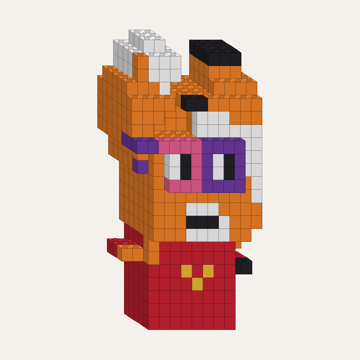
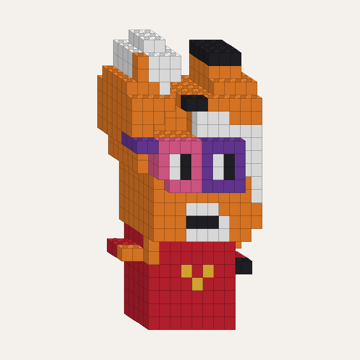
Noun 1：つるの下に残っていた紫を消し、つるを1本に

Changed region(s): [[0.3667, 0.4278, 0.4889, 0.5194]]

diff --git a/plan_noun1.js b/plan_noun1.js
@@ -1,1 +1,1 @@
-window.PLAN={"H": 22, "W": 16, "D": 8, "aspect": 0.77, "palette": {"pink": [230, 95, 145], "orange": [240, 130, 40], "green": [60, 160, 70], "blue": [50, 100, 200], "yellow": [235, 185, 50], "black": [35, 35, 40], "white": [245, 245, 245], "red": [200, 35, 50], "skin": [222, 196, 150], "brown": [120, 75, 40], "gray": [150, 150, 155], "purple": [110, 60, 160]}, "bricks": [{"y": 5, "shape": "1x3x", "col": "orange", "cells": [[2, 5, 3], [3, 5, 3], [4, 5, 3]]}, {"y": 5, "shape": "2x4x", "col": "red", "cells": [[2, 5, 4], [2, 5, 5], [3, 5, 4], [3, 5, 5], [4, 5, 4], [4, 5, 5], [5, 5, 4], [5, 5, 5]]}, {"y": 14, "shape": "2x3z", "col": "purple", "cells": [[2, 14, 0], [2, 14, 1], [2, 14, 2], [3, 14, 0], [3, 14, 1], [3, 14, 2]]}, {"y": 14, "shape": "2x3z", "col": "orange", "cells": [[2, 14, 3], [2, 14, 4], [2, 14, 5], [3, 14, 3], [3, 14, 4], [3, 14, 5]]}, {"y": 14, "shape": "2x8x", "col": "orange", "cells": [[2, 14, 6], [2, 14, 7], [3, 14, 6], [3, 14, 7], [4, 14, 6], [4, 14, 7], [5, 14, 6], [5, 14, 7], [6, 14, 6], [6, 14, 7], [7, 14, 6], [7, 14, 7], [8, 14, 6], [8, 14, 7], [9, 14, 6], [9, 14, 7]]}, {"y": 15, "shape": "1x6z", "col": "orange", "cells": [[2, 15, 1], [2, 15, 2], [2, 15, 3], [2, 15, 4], [2, 15, 5], [2, 15, 6]]}, {"y": 15, "shape": "1x4x", "col": "orange", "cells": [[2, 15, 7], [3, 15, 7], [4, 15, 7], [5, 15, 7]]}, {"y": 16, "shape": "2x3x", "col": "orange", "cells": [[2, 16, 1], [2, 16, 2], [3, 16, 1], [3, 16, 2], [4, 16, 1], [4, 16, 2]]}, {"y": 16, "shape": "1x3z", "col": "orange", "cells": [[2, 16, 3], [2, 16, 4], [2, 16, 5]]}, {"y": 16, "shape": "2x8x", "col": "orange", "cells": [[2, 16, 6], [2, 16, 7], [3, 16, 6], [3, 16, 7], [4, 16, 6], [4, 16, 7], [5, 16, 6], [5, 16, 7], [6, 16, 6], [6, 16, 7], [7, 16, 6], [7, 16, 7], [8, 16, 6], [8, 16, 7], [9, 16, 6], [9, 16, 7]]}, {"y": 17, "shape": "1x6z", "col": "orange", "cells": [[2, 17, 1], [2, 17, 2], [2, 17, 3], [2, 17, 4], [2, 17, 5], [2, 17, 6]]}, {"y": 17, "shape": "1x4x", "col": "orange", "cells": [[2, 17, 7], [3, 17, 7], [4, 17, 7], [5, 17, 7]]}, {"y": 18, "shape": "1x3x", "col": "orange", "cells": [[2, 18, 2], [3, 18, 2], [4, 18, 2]]}, {"y": 18, "shape": "2x4x", "col": "orange", "cells": [[2, 18, 3], [2, 18, 4], [3, 18, 3], [3, 18, 4], [4, 18, 3], [4, 18, 4], [5, 18, 3], [5, 18, 4]]}, {"y": 18, "shape": "2x4x", "col": "orange", "cells": [[2, 18, 5], [2, 18, 6], [3, 18, 5], [3, 18, 6], [4, 18, 5], [4, 18, 6], [5, 18, 5], [5, 18, 6]]}, {"y": 12, "shape": "1x3x", "col": "purple", "cells": [[3, 12, 2], [4, 12, 2], [5, 12, 2]]}, {"y": 12, "shape": "2x4z", "col": "orange", "cells": [[3, 12, 3], [3, 12, 4], [3, 12, 5], [3, 12, 6], [4, 12, 3], [4, 12, 4], [4, 12, 5], [4, 12, 6]]}, {"y": 12, "shape": "1x2x", "col": "orange", "cells": [[3, 12, 7], [4, 12, 7]]}, {"y": 13, "shape": "1x6z", "col": "orange", "cells": [[3, 13, 2], [3, 13, 3], [3, 13, 4], [3, 13, 5], [3, 13, 6], [3, 13, 7]]}, {"y": 15, "shape": "1x2z", "col": "orange", "cells": [[3, 15, 1], [3, 15, 2]]}, {"y": 15, "shape": "2x8x", "col": "orange", "cells": [[3, 15, 3], [3, 15, 4], [4, 15, 3], [4, 15, 4], [5, 15, 3], [5, 15, 4], [6, 15, 3], [6, 15, 4], [7, 15, 3], [7, 15, 4], [8, 15, 3], [8, 15, 4], [9, 15, 3], [9, 15, 4], [10, 15, 3], [10, 15, 4]]}, {"y": 17, "shape": "2x3x", "col": "orange", "cells": [[3, 17, 1], [3, 17, 2], [4, 17, 1], [4, 17, 2], [5, 17, 1], [5, 17, 2]]}, {"y": 19, "shape": "1x1", "col": "orange", "cells": [[3, 19, 2]]}, {"y": 19, "shape": "1x4z", "col": "white", "cells": [[3, 19, 3], [3, 19, 4], [3, 19, 5], [3, 19, 6]]}, {"y": 20, "shape": "1x1", "col": "orange", "cells": [[3, 20, 2]]}, {"y": 20, "shape": "2x4z", "col": "white", "cells": [[3, 20, 3], [3, 20, 4], [3, 20, 5], [3, 20, 6], [4, 20, 3], [4, 20, 4], [4, 20, 5], [4, 20, 6]]}, {"y": 0, "shape": "2x8x", "col": "red", "cells": [[4, 0, 2], [4, 0, 3], [5, 0, 2], [5, 0, 3], [6, 0, 2], [6, 0, 3], [7, 0, 2], [7, 0, 3], [8, 0, 2], [8, 0, 3], [9, 0, 2], [9, 0, 3], [10, 0, 2], [10, 0, 3], [11, 0, 2], [11, 0, 3]]}, {"y": 0, "shape": "2x8x", "col": "red", "cells": [[4, 0, 4], [4, 0, 5], [5, 0, 4], [5, 0, 5], [6, 0, 4], [6, 0, 5], [7, 0, 4], [7, 0, 5], [8, 0, 4], [8, 0, 5], [9, 0, 4], [9, 0, 5], [10, 0, 4], [10, 0, 5], [11, 0, 4], [11, 0, 5]]}, {"y": 0, "shape": "1x4x", "col": "red", "cells": [[4, 0, 6], [5, 0, 6], [6, 0, 6], [7, 0, 6]]}, {"y": 1, "shape": "2x3z", "col": "red", "cells": [[4, 1, 2], [4, 1, 3], [4, 1, 4], [5, 1, 2], [5, 1, 3], [5, 1, 4]]}, {"y": 1, "shape": "2x8x", "col": "red", "cells": [[4, 1, 5], [4, 1, 6], [5, 1, 5], [5, 1, 6], [6, 1, 5], [6, 1, 6], [7, 1, 5], [7, 1, 6], [8, 1, 5], [8, 1, 6], [9, 1, 5], [9, 1, 6], [10, 1, 5], [10, 1, 6], [11, 1, 5], [11, 1, 6]]}, {"y": 2, "shape": "2x8x", "col": "red", "cells": [[4, 2, 2], [4, 2, 3], [5, 2, 2], [5, 2, 3], [6, 2, 2], [6, 2, 3], [7, 2, 2], [7, 2, 3], [8, 2, 2], [8, 2, 3], [9, 2, 2], [9, 2, 3], [10, 2, 2], [10, 2, 3], [11, 2, 2], [11, 2, 3]]}, {"y": 2, "shape": "2x8x", "col": "red", "cells": [[4, 2, 4], [4, 2, 5], [5, 2, 4], [5, 2, 5], [6, 2, 4], [6, 2, 5], [7, 2, 4], [7, 2, 5], [8, 2, 4], [8, 2, 5], [9, 2, 4], [9, 2, 5], [10, 2, 4], [10, 2, 5], [11, 2, 4], [11, 2, 5]]}, {"y": 2, "shape": "1x4x", "col": "red", "cells": [[4, 2, 6], [5, 2, 6], [6, 2, 6], [7, 2, 6]]}, {"y": 3, "shape": "1x4x", "col": "red", "cells": [[4, 3, 2], [5, 3, 2], [6, 3, 2], [7, 3, 2]]}, {"y": 3, "shape": "2x8x", "col": "red", "cells": [[4, 3, 3], [4, 3, 4], [5, 3, 3], [5, 3, 4], [6, 3, 3], [6, 3, 4], [7, 3, 3], [7, 3, 4], [8, 3, 3], [8, 3, 4], [9, 3, 3], [9, 3, 4], [10, 3, 3], [10, 3, 4], [11, 3, 3], [11, 3, 4]]}, {"y": 3, "shape": "2x8x", "col": "red", "cells": [[4, 3, 5], [4, 3, 6], [5, 3, 5], [5, 3, 6], [6, 3, 5], [6, 3, 6], [7, 3, 5], [7, 3, 6], [8, 3, 5], [8, 3, 6], [9, 3, 5], [9, 3, 6], [10, 3, 5], [10, 3, 6], [11, 3, 5], [11, 3, 6]]}, {"y": 4, "shape": "2x3x", "col": "red", "cells": [[4, 4, 2], [4, 4, 3], [5, 4, 2], [5, 4, 3], [6, 4, 2], [6, 4, 3]]}, {"y": 4, "shape": "2x3z", "col": "red", "cells": [[4, 4, 4], [4, 4, 5], [4, 4, 6], [5, 4, 4], [5, 4, 5], [5, 4, 6]]}, {"y": 5, "shape": "1x1", "col": "orange", "cells": [[4, 5, 2]]}, {"y": 5, "shape": "1x6x", "col": "red", "cells": [[4, 5, 6], [5, 5, 6], [6, 5, 6], [7, 5, 6], [8, 5, 6], [9, 5, 6]]}, {"y": 6, "shape": "1x1", "col": "orange", "cells": [[4, 6, 2]]}, {"y": 6, "shape": "2x4z", "col": "red", "cells": [[4, 6, 3], [4, 6, 4], [4, 6, 5], [4, 6, 6], [5, 6, 3], [5, 6, 4], [5, 6, 5], [5, 6, 6]]}, {"y": 7, "shape": "2x3x", "col": "orange", "cells": [[4, 7, 1], [4, 7, 2], [5, 7, 1], [5, 7, 2], [6, 7, 1], [6, 7, 2]]}, {"y": 7, "shape": "1x3z", "col": "orange", "cells": [[4, 7, 3], [4, 7, 4], [4, 7, 5]]}, {"y": 7, "shape": "2x8x", "col": "orange", "cells": [[4, 7, 6], [4, 7, 7], [5, 7, 6], [5, 7, 7], [6, 7, 6], [6, 7, 7], [7, 7, 6], [7, 7, 7], [8, 7, 6], [8, 7, 7], [9, 7, 6], [9, 7, 7], [10, 7, 6], [10, 7, 7], [11, 7, 6], [11, 7, 7]]}, {"y": 8, "shape": "1x3x", "col": "orange", "cells": [[4, 8, 1], [5, 8, 1], [6, 8, 1]]}, {"y": 8, "shape": "1x3z", "col": "orange", "cells": [[4, 8, 2], [4, 8, 3], [4, 8, 4]]}, {"y": 8, "shape": "2x3z", "col": "orange", "cells": [[4, 8, 5], [4, 8, 6], [4, 8, 7], [5, 8, 5], [5, 8, 6], [5, 8, 7]]}, {"y": 9, "shape": "1x6z", "col": "orange", "cells": [[4, 9, 1], [4, 9, 2], [4, 9, 3], [4, 9, 4], [4, 9, 5], [4, 9, 6]]}, {"y": 9, "shape": "1x6x", "col": "orange", "cells": [[4, 9, 7], [5, 9, 7], [6, 9, 7], [7, 9, 7], [8, 9, 7], [9, 9, 7]]}, {"y": 10, "shape": "1x6x", "col": "orange", "cells": [[4, 10, 1], [5, 10, 1], [6, 10, 1], [7, 10, 1], [8, 10, 1], [9, 10, 1]]}, {"y": 10, "shape": "1x6z", "col": "orange", "cells": [[4, 10, 2], [4, 10, 3], [4, 10, 4], [4, 10, 5], [4, 10, 6], [4, 10, 7]]}, {"y": 11, "shape": "1x3z", "col": "orange", "cells": [[4, 11, 1], [4, 11, 2], [4, 11, 3]]}, {"y": 11, "shape": "2x4z", "col": "orange", "cells": [[4, 11, 4], [4, 11, 5], [4, 11, 6], [4, 11, 7], [5, 11, 4], [5, 11, 5], [5, 11, 6], [5, 11, 7]]}, {"y": 12, "shape": "1x1", "col": "orange", "cells": [[4, 12, 1]]}, {"y": 13, "shape": "1x1", "col": "orange", "cells": [[4, 13, 1]]}, {"y": 13, "shape": "1x2x", "col": "orange", "cells": [[4, 13, 7], [5, 13, 7]]}, {"y": 14, "shape": "1x2x", "col": "pink", "cells": [[4, 14, 0], [5, 14, 0]]}, {"y": 14, "shape": "2x4x", "col": "orange", "cells": [[4, 14, 1], [4, 14, 2], [5, 14, 1], [5, 14, 2], [6, 14, 1], [6, 14, 2], [7, 14, 1], [7, 14, 2]]}, {"y": 16, "shape": "2x4x", "col": "orange", "cells": [[4, 16, 3], [4, 16, 4], [5, 16, 3], [5, 16, 4], [6, 16, 3], [6, 16, 4], [7, 16, 3], [7, 16, 4]]}, {"y": 19, "shape": "2x3x", "col": "white", "cells": [[4, 19, 2], [4, 19, 3], [5, 19, 2], [5, 19, 3], [6, 19, 2], [6, 19, 3]]}, {"y": 19, "shape": "2x3x", "col": "white", "cells": [[4, 19, 4], [4, 19, 5], [5, 19, 4], [5, 19, 5], [6, 19, 4], [6, 19, 5]]}, {"y": 19, "shape": "1x3x", "col": "white", "cells": [[4, 19, 6], [5, 19, 6], [6, 19, 6]]}, {"y": 20, "shape": "1x3x", "col": "white", "cells": [[4, 20, 2], [5, 20, 2], [6, 20, 2]]}, {"y": 21, "shape": "2x3z", "col": "white", "cells": [[4, 21, 3], [4, 21, 4], [4, 21, 5], [5, 21, 3], [5, 21, 4], [5, 21, 5]]}, {"y": 5, "shape": "1x6x", "col": "red", "cells": [[5, 5, 2], [6, 5, 2], [7, 5, 2], [8, 5, 2], [9, 5, 2], [10, 5, 2]]}, {"y": 6, "shape": "1x3x", "col": "red", "cells": [[5, 6, 2], [6, 6, 2], [7, 6, 2]]}, {"y": 9, "shape": "1x2x", "col": "orange", "cells": [[5, 9, 1], [6, 9, 1]]}, {"y": 10, "shape": "2x8x", "col": "orange", "cells": [[5, 10, 6], [5, 10, 7], [6, 10, 6], [6, 10, 7], [7, 10, 6], [7, 10, 7], [8, 10, 6], [8, 10, 7], [9, 10, 6], [9, 10, 7], [10, 10, 6], [10, 10, 7], [11, 10, 6], [11, 10, 7], [12, 10, 6], [12, 10, 7]]}, {"y": 11, "shape": "1x2z", "col": "pink", "cells": [[5, 11, 0], [5, 11, 1]]}, {"y": 12, "shape": "1x1", "col": "white", "cells": [[5, 12, 0]]}, {"y": 12, "shape": "2x8x", "col": "orange", "cells": [[5, 12, 6], [5, 12, 7], [6, 12, 6], [6, 12, 7], [7, 12, 6], [7, 12, 7], [8, 12, 6], [8, 12, 7], [9, 12, 6], [9, 12, 7], [10, 12, 6], [10, 12, 7], [11, 12, 6], [11, 12, 7], [12, 12, 6], [12, 12, 7]]}, {"y": 13, "shape": "1x4z", "col": "white", "cells": [[5, 13, 0], [5, 13, 1], [5, 13, 2], [5, 13, 3]]}, {"y": 18, "shape": "1x1", "col": "white", "cells": [[5, 18, 2]]}, {"y": 20, "shape": "2x4z", "col": "white", "cells": [[5, 20, 3], [5, 20, 4], [5, 20, 5], [5, 20, 6], [6, 20, 3], [6, 20, 4], [6, 20, 5], [6, 20, 6]]}, {"y": 1, "shape": "1x6x", "col": "red", "cells": [[6, 1, 2], [7, 1, 2], [8, 1, 2], [9, 1, 2], [10, 1, 2], [11, 1, 2]]}, {"y": 4, "shape": "1x6x", "col": "red", "cells": [[6, 4, 6], [7, 4, 6], [8, 4, 6], [9, 4, 6], [10, 4, 6], [11, 4, 6]]}, {"y": 6, "shape": "1x6x", "col": "red", "cells": [[6, 6, 6], [7, 6, 6], [8, 6, 6], [9, 6, 6], [10, 6, 6], [11, 6, 6]]}, {"y": 8, "shape": "2x8x", "col": "orange", "cells": [[6, 8, 6], [6, 8, 7], [7, 8, 6], [7, 8, 7], [8, 8, 6], [8, 8, 7], [9, 8, 6], [9, 8, 7], [10, 8, 6], [10, 8, 7], [11, 8, 6], [11, 8, 7], [12, 8, 6], [12, 8, 7], [13, 8, 6], [13, 8, 7]]}, {"y": 11, "shape": "1x2z", "col": "pink", "cells": [[6, 11, 0], [6, 11, 1]]}, {"y": 11, "shape": "2x8x", "col": "orange", "cells": [[6, 11, 6], [6, 11, 7], [7, 11, 6], [7, 11, 7], [8, 11, 6], [8, 11, 7], [9, 11, 6], [9, 11, 7], [10, 11, 6], [10, 11, 7], [11, 11, 6], [11, 11, 7], [12, 11, 6], [12, 11, 7], [13, 11, 6], [13, 11, 7]]}, {"y": 12, "shape": "1x2z", "col": "black", "cells": [[6, 12, 0], [6, 12, 1]]}, {"y": 13, "shape": "1x2z", "col": "black", "cells": [[6, 13, 0], [6, 13, 1]]}, {"y": 13, "shape": "2x8x", "col": "orange", "cells": [[6, 13, 6], [6, 13, 7], [7, 13, 6], [7, 13, 7], [8, 13, 6], [8, 13, 7], [9, 13, 6], [9, 13, 7], [10, 13, 6], [10, 13, 7], [11, 13, 6], [11, 13, 7], [12, 13, 6], [12, 13, 7], [13, 13, 6], [13, 13, 7]]}, {"y": 14, "shape": "1x2x", "col": "pink", "cells": [[6, 14, 0], [7, 14, 0]]}, {"y": 15, "shape": "2x8x", "col": "orange", "cells": [[6, 15, 6], [6, 15, 7], [7, 15, 6], [7, 15, 7], [8, 15, 6], [8, 15, 7], [9, 15, 6], [9, 15, 7], [10, 15, 6], [10, 15, 7], [11, 15, 6], [11, 15, 7], [12, 15, 6], [12, 15, 7], [13, 15, 6], [13, 15, 7]]}, {"y": 17, "shape": "1x4x", "col": "orange", "cells": [[6, 17, 3], [7, 17, 3], [8, 17, 3], [9, 17, 3]]}, {"y": 17, "shape": "2x8x", "col": "orange", "cells": [[6, 17, 4], [6, 17, 5], [7, 17, 4], [7, 17, 5], [8, 17, 4], [8, 17, 5], [9, 17, 4], [9, 17, 5], [10, 17, 4], [10, 17, 5], [11, 17, 4], [11, 17, 5], [12, 17, 4], [12, 17, 5], [13, 17, 4], [13, 17, 5]]}, {"y": 17, "shape": "2x8x", "col": "orange", "cells": [[6, 17, 6], [6, 17, 7], [7, 17, 6], [7, 17, 7], [8, 17, 6], [8, 17, 7], [9, 17, 6], [9, 17, 7], [10, 17, 6], [10, 17, 7], [11, 17, 6], [11, 17, 7], [12, 17, 6], [12, 17, 7], [13, 17, 6], [13, 17, 7]]}, {"y": 4, "shape": "1x4z", "col": "yellow", "cells": [[7, 4, 2], [7, 4, 3], [7, 4, 4], [7, 4, 5]]}, {"y": 7, "shape": "2x4x", "col": "white", "cells": [[7, 7, 1], [7, 7, 2], [8, 7, 1], [8, 7, 2], [9, 7, 1], [9, 7, 2], [10, 7, 1], [10, 7, 2]]}, {"y": 8, "shape": "1x3x", "col": "black", "cells": [[7, 8, 1], [8, 8, 1], [9, 8, 1]]}, {"y": 9, "shape": "1x3x", "col": "white", "cells": [[7, 9, 1], [8, 9, 1], [9, 9, 1]]}, {"y": 11, "shape": "1x2z", "col": "pink", "cells": [[7, 11, 0], [7, 11, 1]]}, {"y": 12, "shape": "1x1", "col": "pink", "cells": [[7, 12, 0]]}, {"y": 13, "shape": "1x2z", "col": "pink", "cells": [[7, 13, 0], [7, 13, 1]]}, {"y": 17, "shape": "1x2x", "col": "black", "cells": [[7, 17, 1], [8, 17, 1]]}, {"y": 17, "shape": "1x2x", "col": "orange", "cells": [[7, 17, 2], [8, 17, 2]]}, {"y": 0, "shape": "1x4x", "col": "red", "cells": [[8, 0, 6], [9, 0, 6], [10, 0, 6], [11, 0, 6]]}, {"y": 2, "shape": "1x4x", "col": "red", "cells": [[8, 2, 6], [9, 2, 6], [10, 2, 6], [11, 2, 6]]}, {"y": 3, "shape": "1x1", "col": "yellow", "cells": [[8, 3, 2]]}, {"y": 4, "shape": "1x2z", "col": "red", "cells": [[8, 4, 2], [8, 4, 3]]}, {"y": 6, "shape": "1x4x", "col": "red", "cells": [[8, 6, 2], [9, 6, 2], [10, 6, 2], [11, 6, 2]]}, {"y": 11, "shape": "2x4x", "col": "purple", "cells": [[8, 11, 0], [8, 11, 1], [9, 11, 0], [9, 11, 1], [10, 11, 0], [10, 11, 1], [11, 11, 0], [11, 11, 1]]}, {"y": 12, "shape": "1x2z", "col": "purple", "cells": [[8, 12, 0], [8, 12, 1]]}, {"y": 13, "shape": "1x4z", "col": "purple", "cells": [[8, 13, 0], [8, 13, 1], [8, 13, 2], [8, 13, 3]]}, {"y": 14, "shape": "1x4x", "col": "purple", "cells": [[8, 14, 0], [9, 14, 0], [10, 14, 0], [11, 14, 0]]}, {"y": 15, "shape": "1x6x", "col": "white", "cells": [[8, 15, 1], [9, 15, 1], [10, 15, 1], [11, 15, 1], [12, 15, 1], [13, 15, 1]]}, {"y": 15, "shape": "1x6x", "col": "orange", "cells": [[8, 15, 2], [9, 15, 2], [10, 15, 2], [11, 15, 2], [12, 15, 2], [13, 15, 2]]}, {"y": 16, "shape": "1x3x", "col": "white", "cells": [[8, 16, 1], [9, 16, 1], [10, 16, 1]]}, {"y": 16, "shape": "1x2z", "col": "orange", "cells": [[8, 16, 2], [8, 16, 3]]}, {"y": 3, "shape": "1x3x", "col": "red", "cells": [[9, 3, 2], [10, 3, 2], [11, 3, 2]]}, {"y": 4, "shape": "1x4z", "col": "yellow", "cells": [[9, 4, 2], [9, 4, 3], [9, 4, 4], [9, 4, 5]]}, {"y": 6, "shape": "1x4x", "col": "orange", "cells": [[9, 6, 3], [10, 6, 3], [11, 6, 3], [12, 6, 3]]}, {"y": 12, "shape": "1x1", "col": "white", "cells": [[9, 12, 0]]}, {"y": 13, "shape": "1x2z", "col": "white", "cells": [[9, 13, 0], [9, 13, 1]]}, {"y": 17, "shape": "2x3x", "col": "orange", "cells": [[9, 17, 1], [9, 17, 2], [10, 17, 1], [10, 17, 2], [11, 17, 1], [11, 17, 2]]}, {"y": 4, "shape": "1x2x", "col": "red", "cells": [[10, 4, 2], [11, 4, 2]]}, {"y": 5, "shape": "2x2", "col": "red", "cells": [[10, 5, 5], [11, 5, 5], [10, 5, 6], [11, 5, 6]]}, {"y": 8, "shape": "1x4z", "col": "white", "cells": [[10, 8, 1], [10, 8, 2], [10, 8, 3], [10, 8, 4]]}, {"y": 9, "shape": "2x4x", "col": "orange", "cells": [[10, 9, 1], [10, 9, 2], [11, 9, 1], [11, 9, 2], [12, 9, 1], [12, 9, 2], [13, 9, 1], [13, 9, 2]]}, {"y": 9, "shape": "1x4x", "col": "orange", "cells": [[10, 9, 7], [11, 9, 7], [12, 9, 7], [13, 9, 7]]}, {"y": 10, "shape": "1x3x", "col": "orange", "cells": [[10, 10, 1], [11, 10, 1], [12, 10, 1]]}, {"y": 12, "shape": "1x6z", "col": "black", "cells": [[10, 12, 0], [10, 12, 1], [10, 12, 2], [10, 12, 3], [10, 12, 4], [10, 12, 5]]}, {"y": 13, "shape": "1x4z", "col": "black", "cells": [[10, 13, 0], [10, 13, 1], [10, 13, 2], [10, 13, 3]]}, {"y": 14, "shape": "2x3x", "col": "orange", "cells": [[10, 14, 6], [10, 14, 7], [11, 14, 6], [11, 14, 7], [12, 14, 6], [12, 14, 7]]}, {"y": 16, "shape": "1x4x", "col": "orange", "cells": [[10, 16, 7], [11, 16, 7], [12, 16, 7], [13, 16, 7]]}, {"y": 18, "shape": "1x4x", "col": "orange", "cells": [[10, 18, 2], [11, 18, 2], [12, 18, 2], [13, 18, 2]]}, {"y": 18, "shape": "2x4x", "col": "orange", "cells": [[10, 18, 3], [10, 18, 4], [11, 18, 3], [11, 18, 4], [12, 18, 3], [12, 18, 4], [13, 18, 3], [13, 18, 4]]}, {"y": 18, "shape": "2x4x", "col": "orange", "cells": [[10, 18, 5], [10, 18, 6], [11, 18, 5], [11, 18, 6], [12, 18, 5], [12, 18, 6], [13, 18, 5], [13, 18, 6]]}, {"y": 19, "shape": "1x4z", "col": "orange", "cells": [[10, 19, 3], [10, 19, 4], [10, 19, 5], [10, 19, 6]]}, {"y": 20, "shape": "2x4z", "col": "black", "cells": [[10, 20, 3], [10, 20, 4], [10, 20, 5], [10, 20, 6], [11, 20, 3], [11, 20, 4], [11, 20, 5], [11, 20, 6]]}, {"y": 1, "shape": "1x2z", "col": "red", "cells": [[11, 1, 3], [11, 1, 4]]}, {"y": 4, "shape": "1x3x", "col": "black", "cells": [[11, 4, 3], [12, 4, 3], [13, 4, 3]], "recolor": 1}, {"y": 4, "shape": "2x3x", "col": "red", "cells": [[11, 4, 4], [11, 4, 5], [12, 4, 4], [12, 4, 5], [13, 4, 4], [13, 4, 5]]}, {"y": 5, "shape": "1x3z", "col": "red", "cells": [[11, 5, 2], [11, 5, 3], [11, 5, 4]]}, {"y": 6, "shape": "2x2", "col": "red", "cells": [[11, 6, 4], [12, 6, 4], [11, 6, 5], [12, 6, 5]]}, {"y": 7, "shape": "2x4z", "col": "orange", "cells": [[11, 7, 1], [11, 7, 2], [11, 7, 3], [11, 7, 4], [12, 7, 1], [12, 7, 2], [12, 7, 3], [12, 7, 4]]}, {"y": 8, "shape": "1x3x", "col": "orange", "cells": [[11, 8, 1], [12, 8, 1], [13, 8, 1]]}, {"y": 12, "shape": "1x1", "col": "purple", "cells": [[11, 12, 0]]}, {"y": 13, "shape": "1x2z", "col": "purple", "cells": [[11, 13, 0], [11, 13, 1]]}, {"y": 16, "shape": "2x2", "col": "orange", "cells": [[11, 16, 1], [12, 16, 1], [11, 16, 2], [12, 16, 2]]}, {"y": 19, "shape": "2x4z", "col": "orange", "cells": [[11, 19, 3], [11, 19, 4], [11, 19, 5], [11, 19, 6], [12, 19, 3], [12, 19, 4], [12, 19, 5], [12, 19, 6]]}, {"y": 7, "shape": "1x3z", "col": "orange", "cells": [[12, 7, 5], [12, 7, 6], [12, 7, 7]]}, {"y": 8, "shape": "2x4z", "col": "orange", "cells": [[12, 8, 2], [12, 8, 3], [12, 8, 4], [12, 8, 5], [13, 8, 2], [13, 8, 3], [13, 8, 4], [13, 8, 5]]}, {"y": 11, "shape": "1x3z", "col": "orange", "cells": [[12, 11, 1], [12, 11, 2], [12, 11, 3]]}, {"y": 12, "shape": "1x2x", "col": "white", "cells": [[12, 12, 1], [13, 12, 1]]}, {"y": 13, "shape": "1x2x", "col": "white", "cells": [[12, 13, 1], [13, 13, 1]]}, {"y": 14, "shape": "1x2x", "col": "white", "cells": [[12, 14, 1], [13, 14, 1]]}, {"y": 17, "shape": "2x3z", "col": "orange", "cells": [[12, 17, 1], [12, 17, 2], [12, 17, 3], [13, 17, 1], [13, 17, 2], [13, 17, 3]]}, {"y": 20, "shape": "1x4z", "col": "black", "cells": [[12, 20, 3], [12, 20, 4], [12, 20, 5], [12, 20, 6]]}, {"y": 9, "shape": "1x4z", "col": "orange", "cells": [[13, 9, 3], [13, 9, 4], [13, 9, 5], [13, 9, 6]]}, {"y": 10, "shape": "1x1", "col": "white", "cells": [[13, 10, 1]]}, {"y": 10, "shape": "1x6z", "col": "orange", "cells": [[13, 10, 2], [13, 10, 3], [13, 10, 4], [13, 10, 5], [13, 10, 6], [13, 10, 7]]}, {"y": 11, "shape": "1x1", "col": "white", "cells": [[13, 11, 1]]}, {"y": 11, "shape": "1x4z", "col": "orange", "cells": [[13, 11, 2], [13, 11, 3], [13, 11, 4], [13, 11, 5]]}, {"y": 12, "shape": "1x6z", "col": "orange", "cells": [[13, 12, 2], [13, 12, 3], [13, 12, 4], [13, 12, 5], [13, 12, 6], [13, 12, 7]]}, {"y": 13, "shape": "1x4z", "col": "orange", "cells": [[13, 13, 2], [13, 13, 3], [13, 13, 4], [13, 13, 5]]}, {"y": 14, "shape": "1x6z", "col": "orange", "cells": [[13, 14, 2], [13, 14, 3], [13, 14, 4], [13, 14, 5], [13, 14, 6], [13, 14, 7]]}, {"y": 15, "shape": "1x3z", "col": "orange", "cells": [[13, 15, 3], [13, 15, 4], [13, 15, 5]]}, {"y": 16, "shape": "1x6z", "col": "orange", "cells": [[13, 16, 1], [13, 16, 2], [13, 16, 3], [13, 16, 4], [13, 16, 5], [13, 16, 6]]}]};
+window.PLAN={"H": 22, "W": 16, "D": 8, "aspect": 0.77, "palette": {"pink": [230, 95, 145], "orange": [240, 130, 40], "green": [60, 160, 70], "blue": [50, 100, 200], "yellow": [235, 185, 50], "black": [35, 35, 40], "white": [245, 245, 245], "red": [200, 35, 50], "skin": [222, 196, 150], "brown": [120, 75, 40], "gray": [150, 150, 155], "purple": [110, 60, 160]}, "bricks": [{"y": 5, "shape": "1x3x", "col": "orange", "cells": [[2, 5, 3], [3, 5, 3], [4, 5, 3]]}, {"y": 5, "shape": "2x3x", "col": "red", "cells": [[2, 5, 4], [2, 5, 5], [3, 5, 4], [3, 5, 5], [4, 5, 4], [4, 5, 5]]}, {"y": 14, "shape": "2x3z", "col": "purple", "cells": [[2, 14, 0], [2, 14, 1], [2, 14, 2], [3, 14, 0], [3, 14, 1], [3, 14, 2]]}, {"y": 14, "shape": "2x4z", "col": "orange", "cells": [[2, 14, 3], [2, 14, 4], [2, 14, 5], [2, 14, 6], [3, 14, 3], [3, 14, 4], [3, 14, 5], [3, 14, 6]]}, {"y": 14, "shape": "1x4x", "col": "orange", "cells": [[2, 14, 7], [3, 14, 7], [4, 14, 7], [5, 14, 7]]}, {"y": 15, "shape": "2x2", "col": "orange", "cells": [[2, 15, 1], [3, 15, 1], [2, 15, 2], [3, 15, 2]]}, {"y": 15, "shape": "1x6x", "col": "orange", "cells": [[2, 15, 3], [3, 15, 3], [4, 15, 3], [5, 15, 3], [6, 15, 3], [7, 15, 3]]}, {"y": 15, "shape": "2x4z", "col": "orange", "cells": [[2, 15, 4], [2, 15, 5], [2, 15, 6], [2, 15, 7], [3, 15, 4], [3, 15, 5], [3, 15, 6], [3, 15, 7]]}, {"y": 16, "shape": "1x6z", "col": "orange", "cells": [[2, 16, 1], [2, 16, 2], [2, 16, 3], [2, 16, 4], [2, 16, 5], [2, 16, 6]]}, {"y": 16, "shape": "1x4x", "col": "orange", "cells": [[2, 16, 7], [3, 16, 7], [4, 16, 7], [5, 16, 7]]}, {"y": 17, "shape": "2x3z", "col": "orange", "cells": [[2, 17, 1], [2, 17, 2], [2, 17, 3], [3, 17, 1], [3, 17, 2], [3, 17, 3]]}, {"y": 17, "shape": "2x8x", "col": "orange", "cells": [[2, 17, 4], [2, 17, 5], [3, 17, 4], [3, 17, 5], [4, 17, 4], [4, 17, 5], [5, 17, 4], [5, 17, 5], [6, 17, 4], [6, 17, 5], [7, 17, 4], [7, 17, 5], [8, 17, 4], [8, 17, 5], [9, 17, 4], [9, 17, 5]]}, {"y": 17, "shape": "2x8x", "col": "orange", "cells": [[2, 17, 6], [2, 17, 7], [3, 17, 6], [3, 17, 7], [4, 17, 6], [4, 17, 7], [5, 17, 6], [5, 17, 7], [6, 17, 6], [6, 17, 7], [7, 17, 6], [7, 17, 7], [8, 17, 6], [8, 17, 7], [9, 17, 6], [9, 17, 7]]}, {"y": 18, "shape": "1x3x", "col": "orange", "cells": [[2, 18, 2], [3, 18, 2], [4, 18, 2]]}, {"y": 18, "shape": "2x4x", "col": "orange", "cells": [[2, 18, 3], [2, 18, 4], [3, 18, 3], [3, 18, 4], [4, 18, 3], [4, 18, 4], [5, 18, 3], [5, 18, 4]]}, {"y": 18, "shape": "2x4x", "col": "orange", "cells": [[2, 18, 5], [2, 18, 6], [3, 18, 5], [3, 18, 6], [4, 18, 5], [4, 18, 6], [5, 18, 5], [5, 18, 6]]}, {"y": 12, "shape": "2x4z", "col": "orange", "cells": [[3, 12, 2], [3, 12, 3], [3, 12, 4], [3, 12, 5], [4, 12, 2], [4, 12, 3], [4, 12, 4], [4, 12, 5]]}, {"y": 12, "shape": "2x4x", "col": "orange", "cells": [[3, 12, 6], [3, 12, 7], [4, 12, 6], [4, 12, 7], [5, 12, 6], [5, 12, 7], [6, 12, 6], [6, 12, 7]]}, {"y": 13, "shape": "1x6z", "col": "orange", "cells": [[3, 13, 2], [3, 13, 3], [3, 13, 4], [3, 13, 5], [3, 13, 6], [3, 13, 7]]}, {"y": 16, "shape": "2x3z", "col": "orange", "cells": [[3, 16, 1], [3, 16, 2], [3, 16, 3], [4, 16, 1], [4, 16, 2], [4, 16, 3]]}, {"y": 19, "shape": "1x1", "col": "orange", "cells": [[3, 19, 2]]}, {"y": 19, "shape": "1x3z", "col": "white", "cells": [[3, 19, 3], [3, 19, 4], [3, 19, 5]]}, {"y": 19, "shape": "1x4x", "col": "white", "cells": [[3, 19, 6], [4, 19, 6], [5, 19, 6], [6, 19, 6]]}, {"y": 20, "shape": "1x1", "col": "orange", "cells": [[3, 20, 2]]}, {"y": 20, "shape": "2x4z", "col": "white", "cells": [[3, 20, 3], [3, 20, 4], [3, 20, 5], [3, 20, 6], [4, 20, 3], [4, 20, 4], [4, 20, 5], [4, 20, 6]]}, {"y": 0, "shape": "2x8x", "col": "red", "cells": [[4, 0, 2], [4, 0, 3], [5, 0, 2], [5, 0, 3], [6, 0, 2], [6, 0, 3], [7, 0, 2], [7, 0, 3], [8, 0, 2], [8, 0, 3], [9, 0, 2], [9, 0, 3], [10, 0, 2], [10, 0, 3], [11, 0, 2], [11, 0, 3]]}, {"y": 0, "shape": "2x3z", "col": "red", "cells": [[4, 0, 4], [4, 0, 5], [4, 0, 6], [5, 0, 4], [5, 0, 5], [5, 0, 6]]}, {"y": 1, "shape": "1x6x", "col": "red", "cells": [[4, 1, 2], [5, 1, 2], [6, 1, 2], [7, 1, 2], [8, 1, 2], [9, 1, 2]]}, {"y": 1, "shape": "1x2z", "col": "red", "cells": [[4, 1, 3], [4, 1, 4]]}, {"y": 1, "shape": "2x8x", "col": "red", "cells": [[4, 1, 5], [4, 1, 6], [5, 1, 5], [5, 1, 6], [6, 1, 5], [6, 1, 6], [7, 1, 5], [7, 1, 6], [8, 1, 5], [8, 1, 6], [9, 1, 5], [9, 1, 6], [10, 1, 5], [10, 1, 6], [11, 1, 5], [11, 1, 6]]}, {"y": 2, "shape": "2x8x", "col": "red", "cells": [[4, 2, 2], [4, 2, 3], [5, 2, 2], [5, 2, 3], [6, 2, 2], [6, 2, 3], [7, 2, 2], [7, 2, 3], [8, 2, 2], [8, 2, 3], [9, 2, 2], [9, 2, 3], [10, 2, 2], [10, 2, 3], [11, 2, 2], [11, 2, 3]]}, {"y": 2, "shape": "2x8x", "col": "red", "cells": [[4, 2, 4], [4, 2, 5], [5, 2, 4], [5, 2, 5], [6, 2, 4], [6, 2, 5], [7, 2, 4], [7, 2, 5], [8, 2, 4], [8, 2, 5], [9, 2, 4], [9, 2, 5], [10, 2, 4], [10, 2, 5], [11, 2, 4], [11, 2, 5]]}, {"y": 2, "shape": "1x2x", "col": "red", "cells": [[4, 2, 6], [5, 2, 6]]}, {"y": 3, "shape": "1x4x", "col": "red", "cells": [[4, 3, 2], [5, 3, 2], [6, 3, 2], [7, 3, 2]]}, {"y": 3, "shape": "2x8x", "col": "red", "cells": [[4, 3, 3], [4, 3, 4], [5, 3, 3], [5, 3, 4], [6, 3, 3], [6, 3, 4], [7, 3, 3], [7, 3, 4], [8, 3, 3], [8, 3, 4], [9, 3, 3], [9, 3, 4], [10, 3, 3], [10, 3, 4], [11, 3, 3], [11, 3, 4]]}, {"y": 3, "shape": "2x8x", "col": "red", "cells": [[4, 3, 5], [4, 3, 6], [5, 3, 5], [5, 3, 6], [6, 3, 5], [6, 3, 6], [7, 3, 5], [7, 3, 6], [8, 3, 5], [8, 3, 6], [9, 3, 5], [9, 3, 6], [10, 3, 5], [10, 3, 6], [11, 3, 5], [11, 3, 6]]}, {"y": 4, "shape": "2x3x", "col": "red", "cells": [[4, 4, 2], [4, 4, 3], [5, 4, 2], [5, 4, 3], [6, 4, 2], [6, 4, 3]]}, {"y": 4, "shape": "2x3z", "col": "red", "cells": [[4, 4, 4], [4, 4, 5], [4, 4, 6], [5, 4, 4], [5, 4, 5], [5, 4, 6]]}, {"y": 5, "shape": "1x1", "col": "orange", "cells": [[4, 5, 2]]}, {"y": 5, "shape": "1x4x", "col": "red", "cells": [[4, 5, 6], [5, 5, 6], [6, 5, 6], [7, 5, 6]]}, {"y": 6, "shape": "1x1", "col": "orange", "cells": [[4, 6, 2]]}, {"y": 6, "shape": "2x4z", "col": "red", "cells": [[4, 6, 3], [4, 6, 4], [4, 6, 5], [4, 6, 6], [5, 6, 3], [5, 6, 4], [5, 6, 5], [5, 6, 6]]}, {"y": 7, "shape": "2x3x", "col": "orange", "cells": [[4, 7, 1], [4, 7, 2], [5, 7, 1], [5, 7, 2], [6, 7, 1], [6, 7, 2]]}, {"y": 7, "shape": "1x3z", "col": "orange", "cells": [[4, 7, 3], [4, 7, 4], [4, 7, 5]]}, {"y": 7, "shape": "2x8x", "col": "orange", "cells": [[4, 7, 6], [4, 7, 7], [5, 7, 6], [5, 7, 7], [6, 7, 6], [6, 7, 7], [7, 7, 6], [7, 7, 7], [8, 7, 6], [8, 7, 7], [9, 7, 6], [9, 7, 7], [10, 7, 6], [10, 7, 7], [11, 7, 6], [11, 7, 7]]}, {"y": 8, "shape": "1x3x", "col": "orange", "cells": [[4, 8, 1], [5, 8, 1], [6, 8, 1]]}, {"y": 8, "shape": "1x6z", "col": "orange", "cells": [[4, 8, 2], [4, 8, 3], [4, 8, 4], [4, 8, 5], [4, 8, 6], [4, 8, 7]]}, {"y": 9, "shape": "2x3x", "col": "orange", "cells": [[4, 9, 1], [4, 9, 2], [5, 9, 1], [5, 9, 2], [6, 9, 1], [6, 9, 2]]}, {"y": 9, "shape": "1x3z", "col": "orange", "cells": [[4, 9, 3], [4, 9, 4], [4, 9, 5]]}, {"y": 9, "shape": "2x4x", "col": "orange", "cells": [[4, 9, 6], [4, 9, 7], [5, 9, 6], [5, 9, 7], [6, 9, 6], [6, 9, 7], [7, 9, 6], [7, 9, 7]]}, {"y": 10, "shape": "1x6x", "col": "orange", "cells": [[4, 10, 1], [5, 10, 1], [6, 10, 1], [7, 10, 1], [8, 10, 1], [9, 10, 1]]}, {"y": 10, "shape": "1x6z", "col": "orange", "cells": [[4, 10, 2], [4, 10, 3], [4, 10, 4], [4, 10, 5], [4, 10, 6], [4, 10, 7]]}, {"y": 11, "shape": "1x6z", "col": "orange", "cells": [[4, 11, 1], [4, 11, 2], [4, 11, 3], [4, 11, 4], [4, 11, 5], [4, 11, 6]]}, {"y": 11, "shape": "1x2x", "col": "orange", "cells": [[4, 11, 7], [5, 11, 7]]}, {"y": 12, "shape": "1x2z", "col": "pink", "cells": [[4, 12, 0], [4, 12, 1]]}, {"y": 13, "shape": "1x2z", "col": "pink", "cells": [[4, 13, 0], [4, 13, 1]]}, {"y": 13, "shape": "2x8x", "col": "orange", "cells": [[4, 13, 6], [4, 13, 7], [5, 13, 6], [5, 13, 7], [6, 13, 6], [6, 13, 7], [7, 13, 6], [7, 13, 7], [8, 13, 6], [8, 13, 7], [9, 13, 6], [9, 13, 7], [10, 13, 6], [10, 13, 7], [11, 13, 6], [11, 13, 7]]}, {"y": 14, "shape": "1x2x", "col": "pink", "cells": [[4, 14, 0], [5, 14, 0]]}, {"y": 14, "shape": "2x4x", "col": "orange", "cells": [[4, 14, 1], [4, 14, 2], [5, 14, 1], [5, 14, 2], [6, 14, 1], [6, 14, 2], [7, 14, 1], [7, 14, 2]]}, {"y": 15, "shape": "1x4x", "col": "orange", "cells": [[4, 15, 7], [5, 15, 7], [6, 15, 7], [7, 15, 7]]}, {"y": 17, "shape": "2x2", "col": "orange", "cells": [[4, 17, 1], [5, 17, 1], [4, 17, 2], [5, 17, 2]]}, {"y": 19, "shape": "2x3x", "col": "white", "cells": [[4, 19, 2], [4, 19, 3], [5, 19, 2], [5, 19, 3], [6, 19, 2], [6, 19, 3]]}, {"y": 19, "shape": "2x3x", "col": "white", "cells": [[4, 19, 4], [4, 19, 5], [5, 19, 4], [5, 19, 5], [6, 19, 4], [6, 19, 5]]}, {"y": 20, "shape": "1x3x", "col": "white", "cells": [[4, 20, 2], [5, 20, 2], [6, 20, 2]]}, {"y": 21, "shape": "2x3z", "col": "white", "cells": [[4, 21, 3], [4, 21, 4], [4, 21, 5], [5, 21, 3], [5, 21, 4], [5, 21, 5]]}, {"y": 5, "shape": "1x6x", "col": "red", "cells": [[5, 5, 2], [6, 5, 2], [7, 5, 2], [8, 5, 2], [9, 5, 2], [10, 5, 2]]}, {"y": 6, "shape": "1x3x", "col": "red", "cells": [[5, 6, 2], [6, 6, 2], [7, 6, 2]]}, {"y": 8, "shape": "1x6x", "col": "orange", "cells": [[5, 8, 7], [6, 8, 7], [7, 8, 7], [8, 8, 7], [9, 8, 7], [10, 8, 7]]}, {"y": 10, "shape": "2x8x", "col": "orange", "cells": [[5, 10, 6], [5, 10, 7], [6, 10, 6], [6, 10, 7], [7, 10, 6], [7, 10, 7], [8, 10, 6], [8, 10, 7], [9, 10, 6], [9, 10, 7], [10, 10, 6], [10, 10, 7], [11, 10, 6], [11, 10, 7], [12, 10, 6], [12, 10, 7]]}, {"y": 11, "shape": "1x2z", "col": "pink", "cells": [[5, 11, 0], [5, 11, 1]]}, {"y": 12, "shape": "1x1", "col": "white", "cells": [[5, 12, 0]]}, {"y": 13, "shape": "1x4z", "col": "white", "cells": [[5, 13, 0], [5, 13, 1], [5, 13, 2], [5, 13, 3]]}, {"y": 16, "shape": "2x3x", "col": "orange", "cells": [[5, 16, 3], [5, 16, 4], [6, 16, 3], [6, 16, 4], [7, 16, 3], [7, 16, 4]]}, {"y": 18, "shape": "1x1", "col": "white", "cells": [[5, 18, 2]]}, {"y": 20, "shape": "2x4z", "col": "white", "cells": [[5, 20, 3], [5, 20, 4], [5, 20, 5], [5, 20, 6], [6, 20, 3], [6, 20, 4], [6, 20, 5], [6, 20, 6]]}, {"y": 0, "shape": "1x4x", "col": "red", "cells": [[6, 0, 6], [7, 0, 6], [8, 0, 6], [9, 0, 6]]}, {"y": 2, "shape": "1x6x", "col": "red", "cells": [[6, 2, 6], [7, 2, 6], [8, 2, 6], [9, 2, 6], [10, 2, 6], [11, 2, 6]]}, {"y": 4, "shape": "1x6x", "col": "red", "cells": [[6, 4, 6], [7, 4, 6], [8, 4, 6], [9, 4, 6], [10, 4, 6], [11, 4, 6]]}, {"y": 6, "shape": "1x6x", "col": "red", "cells": [[6, 6, 6], [7, 6, 6], [8, 6, 6], [9, 6, 6], [10, 6, 6], [11, 6, 6]]}, {"y": 11, "shape": "1x2z", "col": "pink", "cells": [[6, 11, 0], [6, 11, 1]]}, {"y": 11, "shape": "2x8x", "col": "orange", "cells": [[6, 11, 6], [6, 11, 7], [7, 11, 6], [7, 11, 7], [8, 11, 6], [8, 11, 7], [9, 11, 6], [9, 11, 7], [10, 11, 6], [10, 11, 7], [11, 11, 6], [11, 11, 7], [12, 11, 6], [12, 11, 7], [13, 11, 6], [13, 11, 7]]}, {"y": 12, "shape": "1x2z", "col": "black", "cells": [[6, 12, 0], [6, 12, 1]]}, {"y": 13, "shape": "1x2z", "col": "black", "cells": [[6, 13, 0], [6, 13, 1]]}, {"y": 14, "shape": "1x2x", "col": "pink", "cells": [[6, 14, 0], [7, 14, 0]]}, {"y": 14, "shape": "2x8x", "col": "orange", "cells": [[6, 14, 6], [6, 14, 7], [7, 14, 6], [7, 14, 7], [8, 14, 6], [8, 14, 7], [9, 14, 6], [9, 14, 7], [10, 14, 6], [10, 14, 7], [11, 14, 6], [11, 14, 7], [12, 14, 6], [12, 14, 7], [13, 14, 6], [13, 14, 7]]}, {"y": 16, "shape": "2x8x", "col": "orange", "cells": [[6, 16, 6], [6, 16, 7], [7, 16, 6], [7, 16, 7], [8, 16, 6], [8, 16, 7], [9, 16, 6], [9, 16, 7], [10, 16, 6], [10, 16, 7], [11, 16, 6], [11, 16, 7], [12, 16, 6], [12, 16, 7], [13, 16, 6], [13, 16, 7]]}, {"y": 17, "shape": "1x4x", "col": "orange", "cells": [[6, 17, 3], [7, 17, 3], [8, 17, 3], [9, 17, 3]]}, {"y": 4, "shape": "1x2z", "col": "yellow", "cells": [[7, 4, 2], [7, 4, 3]]}, {"y": 7, "shape": "2x4x", "col": "white", "cells": [[7, 7, 1], [7, 7, 2], [8, 7, 1], [8, 7, 2], [9, 7, 1], [9, 7, 2], [10, 7, 1], [10, 7, 2]]}, {"y": 8, "shape": "1x3x", "col": "black", "cells": [[7, 8, 1], [8, 8, 1], [9, 8, 1]]}, {"y": 9, "shape": "1x3x", "col": "white", "cells": [[7, 9, 1], [8, 9, 1], [9, 9, 1]]}, {"y": 11, "shape": "1x2z", "col": "pink", "cells": [[7, 11, 0], [7, 11, 1]]}, {"y": 12, "shape": "1x1", "col": "pink", "cells": [[7, 12, 0]]}, {"y": 12, "shape": "1x6x", "col": "orange", "cells": [[7, 12, 7], [8, 12, 7], [9, 12, 7], [10, 12, 7], [11, 12, 7], [12, 12, 7]]}, {"y": 13, "shape": "1x2z", "col": "pink", "cells": [[7, 13, 0], [7, 13, 1]]}, {"y": 17, "shape": "1x2x", "col": "black", "cells": [[7, 17, 1], [8, 17, 1]]}, {"y": 17, "shape": "1x2x", "col": "orange", "cells": [[7, 17, 2], [8, 17, 2]]}, {"y": 3, "shape": "1x1", "col": "yellow", "cells": [[8, 3, 2]]}, {"y": 4, "shape": "1x2z", "col": "red", "cells": [[8, 4, 2], [8, 4, 3]]}, {"y": 5, "shape": "2x4x", "col": "red", "cells": [[8, 5, 5], [8, 5, 6], [9, 5, 5], [9, 5, 6], [10, 5, 5], [10, 5, 6], [11, 5, 5], [11, 5, 6]]}, {"y": 6, "shape": "1x4x", "col": "red", "cells": [[8, 6, 2], [9, 6, 2], [10, 6, 2], [11, 6, 2]]}, {"y": 9, "shape": "1x6x", "col": "orange", "cells": [[8, 9, 7], [9, 9, 7], [10, 9, 7], [11, 9, 7], [12, 9, 7], [13, 9, 7]]}, {"y": 11, "shape": "2x4x", "col": "purple", "cells": [[8, 11, 0], [8, 11, 1], [9, 11, 0], [9, 11, 1], [10, 11, 0], [10, 11, 1], [11, 11, 0], [11, 11, 1]]}, {"y": 12, "shape": "1x2z", "col": "purple", "cells": [[8, 12, 0], [8, 12, 1]]}, {"y": 13, "shape": "1x2z", "col": "purple", "cells": [[8, 13, 0], [8, 13, 1]]}, {"y": 14, "shape": "1x4x", "col": "purple", "cells": [[8, 14, 0], [9, 14, 0], [10, 14, 0], [11, 14, 0]]}, {"y": 15, "shape": "1x6x", "col": "white", "cells": [[8, 15, 1], [9, 15, 1], [10, 15, 1], [11, 15, 1], [12, 15, 1], [13, 15, 1]]}, {"y": 15, "shape": "1x6z", "col": "orange", "cells": [[8, 15, 2], [8, 15, 3], [8, 15, 4], [8, 15, 5], [8, 15, 6], [8, 15, 7]]}, {"y": 16, "shape": "1x3x", "col": "white", "cells": [[8, 16, 1], [9, 16, 1], [10, 16, 1]]}, {"y": 16, "shape": "1x2x", "col": "orange", "cells": [[8, 16, 2], [9, 16, 2]]}, {"y": 3, "shape": "1x3x", "col": "red", "cells": [[9, 3, 2], [10, 3, 2], [11, 3, 2]]}, {"y": 4, "shape": "1x2z", "col": "yellow", "cells": [[9, 4, 2], [9, 4, 3]]}, {"y": 12, "shape": "1x2z", "col": "white", "cells": [[9, 12, 0], [9, 12, 1]]}, {"y": 13, "shape": "1x1", "col": "white", "cells": [[9, 13, 0]]}, {"y": 15, "shape": "1x4x", "col": "orange", "cells": [[9, 15, 7], [10, 15, 7], [11, 15, 7], [12, 15, 7]]}, {"y": 17, "shape": "2x4x", "col": "orange", "cells": [[9, 17, 1], [9, 17, 2], [10, 17, 1], [10, 17, 2], [11, 17, 1], [11, 17, 2], [12, 17, 1], [12, 17, 2]]}, {"y": 0, "shape": "2x3z", "col": "red", "cells": [[10, 0, 4], [10, 0, 5], [10, 0, 6], [11, 0, 4], [11, 0, 5], [11, 0, 6]]}, {"y": 1, "shape": "2x3z", "col": "red", "cells": [[10, 1, 2], [10, 1, 3], [10, 1, 4], [11, 1, 2], [11, 1, 3], [11, 1, 4]]}, {"y": 4, "shape": "1x2x", "col": "red", "cells": [[10, 4, 2], [11, 4, 2]]}, {"y": 8, "shape": "1x2z", "col": "white", "cells": [[10, 8, 1], [10, 8, 2]]}, {"y": 9, "shape": "2x4x", "col": "orange", "cells": [[10, 9, 1], [10, 9, 2], [11, 9, 1], [11, 9, 2], [12, 9, 1], [12, 9, 2], [13, 9, 1], [13, 9, 2]]}, {"y": 10, "shape": "1x3x", "col": "orange", "cells": [[10, 10, 1], [11, 10, 1], [12, 10, 1]]}, {"y": 12, "shape": "1x2z", "col": "black", "cells": [[10, 12, 0], [10, 12, 1]]}, {"y": 13, "shape": "1x2z", "col": "black", "cells": [[10, 13, 0], [10, 13, 1]]}, {"y": 17, "shape": "1x4x", "col": "orange", "cells": [[10, 17, 7], [11, 17, 7], [12, 17, 7], [13, 17, 7]]}, {"y": 18, "shape": "1x4x", "col": "orange", "cells": [[10, 18, 2], [11, 18, 2], [12, 18, 2], [13, 18, 2]]}, {"y": 18, "shape": "2x4x", "col": "orange", "cells": [[10, 18, 3], [10, 18, 4], [11, 18, 3], [11, 18, 4], [12, 18, 3], [12, 18, 4], [13, 18, 3], [13, 18, 4]]}, {"y": 18, "shape": "2x4x", "col": "orange", "cells": [[10, 18, 5], [10, 18, 6], [11, 18, 5], [11, 18, 6], [12, 18, 5], [12, 18, 6], [13, 18, 5], [13, 18, 6]]}, {"y": 19, "shape": "2x4z", "col": "orange", "cells": [[10, 19, 3], [10, 19, 4], [10, 19, 5], [10, 19, 6], [11, 19, 3], [11, 19, 4], [11, 19, 5], [11, 19, 6]]}, {"y": 20, "shape": "2x3x", "col": "black", "cells": [[10, 20, 3], [10, 20, 4], [11, 20, 3], [11, 20, 4], [12, 20, 3], [12, 20, 4]]}, {"y": 20, "shape": "2x3x", "col": "black", "cells": [[10, 20, 5], [10, 20, 6], [11, 20, 5], [11, 20, 6], [12, 20, 5], [12, 20, 6]]}, {"y": 4, "shape": "1x3x", "col": "black", "cells": [[11, 4, 3], [12, 4, 3], [13, 4, 3]], "recolor": 1}, {"y": 4, "shape": "2x3x", "col": "red", "cells": [[11, 4, 4], [11, 4, 5], [12, 4, 4], [12, 4, 5], [13, 4, 4], [13, 4, 5]]}, {"y": 5, "shape": "1x3z", "col": "red", "cells": [[11, 5, 2], [11, 5, 3], [11, 5, 4]]}, {"y": 6, "shape": "1x2x", "col": "orange", "cells": [[11, 6, 3], [12, 6, 3]]}, {"y": 6, "shape": "2x2", "col": "red", "cells": [[11, 6, 4], [12, 6, 4], [11, 6, 5], [12, 6, 5]]}, {"y": 7, "shape": "2x4z", "col": "orange", "cells": [[11, 7, 1], [11, 7, 2], [11, 7, 3], [11, 7, 4], [12, 7, 1], [12, 7, 2], [12, 7, 3], [12, 7, 4]]}, {"y": 8, "shape": "1x3x", "col": "orange", "cells": [[11, 8, 1], [12, 8, 1], [13, 8, 1]]}, {"y": 8, "shape": "2x3x", "col": "orange", "cells": [[11, 8, 6], [11, 8, 7], [12, 8, 6], [12, 8, 7], [13, 8, 6], [13, 8, 7]]}, {"y": 12, "shape": "1x1", "col": "purple", "cells": [[11, 12, 0]]}, {"y": 13, "shape": "1x4z", "col": "purple", "cells": [[11, 13, 0], [11, 13, 1], [11, 13, 2], [11, 13, 3]]}, {"y": 16, "shape": "2x3x", "col": "orange", "cells": [[11, 16, 1], [11, 16, 2], [12, 16, 1], [12, 16, 2], [13, 16, 1], [13, 16, 2]]}, {"y": 7, "shape": "1x3z", "col": "orange", "cells": [[12, 7, 5], [12, 7, 6], [12, 7, 7]]}, {"y": 8, "shape": "2x4z", "col": "orange", "cells": [[12, 8, 2], [12, 8, 3], [12, 8, 4], [12, 8, 5], [13, 8, 2], [13, 8, 3], [13, 8, 4], [13, 8, 5]]}, {"y": 11, "shape": "1x2z", "col": "orange", "cells": [[12, 11, 1], [12, 11, 2]]}, {"y": 12, "shape": "1x2x", "col": "white", "cells": [[12, 12, 1], [13, 12, 1]]}, {"y": 13, "shape": "1x2x", "col": "white", "cells": [[12, 13, 1], [13, 13, 1]]}, {"y": 13, "shape": "2x3z", "col": "orange", "cells": [[12, 13, 5], [12, 13, 6], [12, 13, 7], [13, 13, 5], [13, 13, 6], [13, 13, 7]]}, {"y": 14, "shape": "1x2x", "col": "white", "cells": [[12, 14, 1], [13, 14, 1]]}, {"y": 19, "shape": "1x4z", "col": "orange", "cells": [[12, 19, 3], [12, 19, 4], [12, 19, 5], [12, 19, 6]]}, {"y": 9, "shape": "1x4z", "col": "orange", "cells": [[13, 9, 3], [13, 9, 4], [13, 9, 5], [13, 9, 6]]}, {"y": 10, "shape": "1x1", "col": "white", "cells": [[13, 10, 1]]}, {"y": 10, "shape": "1x6z", "col": "orange", "cells": [[13, 10, 2], [13, 10, 3], [13, 10, 4], [13, 10, 5], [13, 10, 6], [13, 10, 7]]}, {"y": 11, "shape": "1x1", "col": "white", "cells": [[13, 11, 1]]}, {"y": 11, "shape": "1x4z", "col": "orange", "cells": [[13, 11, 2], [13, 11, 3], [13, 11, 4], [13, 11, 5]]}, {"y": 12, "shape": "1x6z", "col": "orange", "cells": [[13, 12, 2], [13, 12, 3], [13, 12, 4], [13, 12, 5], [13, 12, 6], [13, 12, 7]]}, {"y": 13, "shape": "1x3z", "col": "orange", "cells": [[13, 13, 2], [13, 13, 3], [13, 13, 4]]}, {"y": 14, "shape": "1x4z", "col": "orange", "cells": [[13, 14, 2], [13, 14, 3], [13, 14, 4], [13, 14, 5]]}, {"y": 15, "shape": "1x6z", "col": "orange", "cells": [[13, 15, 2], [13, 15, 3], [13, 15, 4], [13, 15, 5], [13, 15, 6], [13, 15, 7]]}, {"y": 16, "shape": "1x3z", "col": "orange", "cells": [[13, 16, 3], [13, 16, 4], [13, 16, 5]]}, {"y": 17, "shape": "1x6z", "col": "orange", "cells": [[13, 17, 1], [13, 17, 2], [13, 17, 3], [13, 17, 4], [13, 17, 5], [13, 17, 6]]}]};
